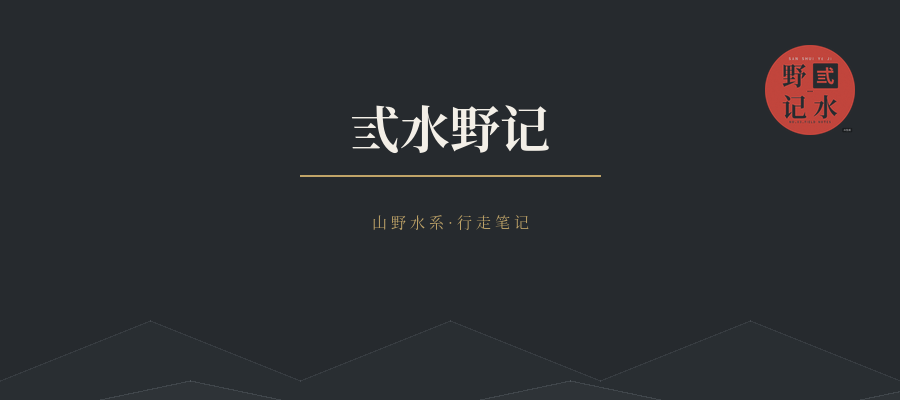
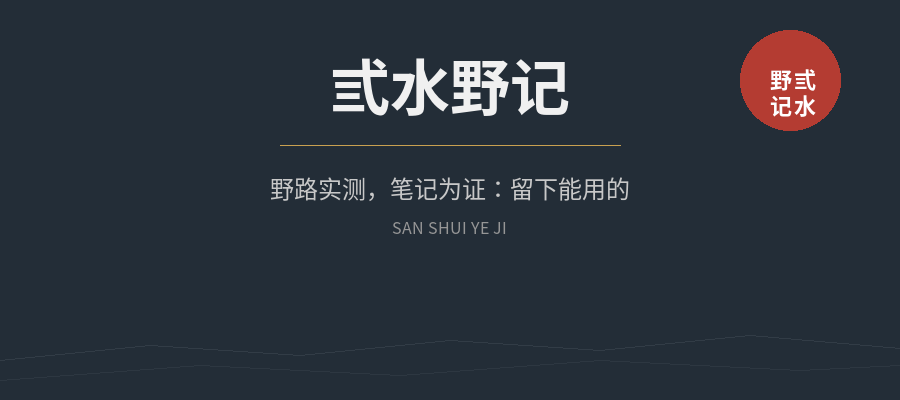
v2.6.0: 整理assets+更新SOP+大厂文章推送素材
- 新增：大厂个人AI助理之战封面输出图
- 精简：移除冗余brand资源（banner/logo/多版本header）
- 更新TEAM.md/CHANGELOG/docs同步今日推进
- 清理assets/templates目录

diff --git a/docs/tools/tools-design.md b/docs/tools/tools-design.md
@@ -10,17 +10,8 @@ source_lines: "779-794,876-893"
 
 | 工具 | 类型 | 状态 | 路径/入口 | 用法 |
 |------|------|------|-----------|------|
-| `wx-toolkit` | HTML | ✅ | [minis://shared/wx-toolkit/index.html](minis://shared/wx-toolkit/index.html) | 本地化一键排版。默认参数：15px/1.75em/字距1px/段距5px/图片阴影3.5/3.5/8px |
-| `minis-browser-use` | CLI | ✅ | `minis-browser-use` | 排版自动化：navigate → inject HTML → formatContent() → applyImageShadow() → screenshot 验证 |
-
-**自动化流水线**（用 minis-browser-use 操控 wx-toolkit）：
-```
-1. navigate → minis://shared/wx-toolkit/index.html
-2. execute_js → 注入 Markdown 转 HTML 的 innerHTML
-3. execute_js formatContent() — 一键排版（清脏样式+统一样式）
-4. execute_js applyImageShadow() — 图片加阴影
-5. screenshot — 验证效果
-```
+| `gzh-typeset.py` | Python | ✅ | `/var/minis/shared/gzh-team/gzh-typeset.py` | Markdown → HTML 排版。5 主题预设 + 荧光笔 + 首尾模板 + 表格转义 |
+| `minis-browser-use` | CLI | ✅ | `minis-browser-use` | 可选：navigate → inject HTML → formatContent() → screenshot 验证（原 gzh-typeset.py 流程） |
 
 
 ### 12.9 角色→工具速查
@@ -32,11 +23,11 @@ source_lines: "779-794,876-893"
 | **结构梳理** | 无工具（靠 §3.3 结构模板库） | 5 种模板：教程拆解/观点文/对比测评/复盘/盘点 |
 | **主笔** | `bao-kuai-xie-zuo` → `humanizer-check.py` | 写完跑去味检测，≤5 分进审核 |
 | **审核** | `yuwen-publish-precheck` + `gate-check.py` + `apple-vision` + `REVIEW.md` | 词面预检 → 结构门禁 → OCR 抽检 → 规范对照 |
-| **排版** | `hai-bao-she-ji`(即梦) / `minis-model-use`(sensenova) + `wx-toolkit` + `minis-browser-use` | 生图 → 排版 → 截图验证 |
+| **排版** | `hai-bao-she-ji`(即梦) / `minis-model-use`(sensenova) + `gzh-typeset.py` | 生图 → 排版 → 截图验证 |
 | **发布** | `gongzhonghao-publish` + `gzh-api-push.py` | 检查清单 → API 推草稿箱 → 后台确认 |
 | **读者互动官** | `nei-rong-zhuan-hua` | 一鱼多吃 6 平台拆分 |
 
-> ✅ 15 个工具 + 7 个文档/配置（§12.1-12.8 共 22 行，逐行验证存在）（09-17）。5 个已实测执行（wx-toolkit / gate-check.py / yuwen-publish-precheck / hai-bao-she-ji / minis-model-use），8 个已读文档未执行。
+> ✅ 15 个工具 + 7 个文档/配置（§12.1-12.8 共 22 行，逐行验证存在）（09-17）。4 个已实测执行（gate-check.py / yuwen-publish-precheck / hai-bao-she-ji / minis-model-use），9 个已读文档未执行。
 > ⚠ 结构梳理无对应工具——靠模板库是现状，不是遗漏。模板库的 5 种结构覆盖 AI 自媒体 90% 的选题类型。
 
 ---

diff --git a/TEAM.md b/TEAM.md
@@ -356,7 +356,7 @@ version: "2.5.2"
 - → 09：图片尺寸标准
 - ← 10：图片交付
 - → 07：排版稿截图
-- → 09：实拍图标注**排版规范（与 wx-toolkit 默认一致）**
+- → 09：实拍图标注**排版规范（与 gzh-typeset.py 默认一致）**
 
 | 参数 | 值 |
 |------|-----|
@@ -374,7 +374,7 @@ version: "2.5.2"
 
 **头条封面裁切提醒（微信官方）**：聊天列表 / 部分卡片场景会把 2.35:1 裁成 1:1，**核心内容必须居中**，不能贴边。
 
-**工具**：`minis://shared/wx-toolkit/index.html`（排版）+ `gate-H11-check.py`（图上中文自检）
+**工具**：`gzh-typeset.py`（排版）+ `gate-H11-check.py`（图上中文自检）
 
 > 生图通道、五条硬约束、比例适配等详见 §3.10 丹青（视觉创意岗）。法度不再负责生图。
 
@@ -475,7 +475,7 @@ version: "2.5.2"
 
 > ⚠ **推送到草稿箱 ≠ 发布**。推完仍需在公众号后台预览确认后再点「发布」。
 
-**工具链**：`gongzhonghao-publish`——创→排→发→推流水线，含 `gzh-api-tui-song` 推草稿箱、`gzh-pai-ban` 排版组件（排版规范与 wx-toolkit 默认一致）
+**工具链**：`gongzhonghao-publish`——创→排→发→推流水线，含 `gzh-api-tui-song` 推草稿箱、`gzh-pai-ban` 排版组件（排版规范与 gzh-typeset.py 默认一致）
 
 
 ### 3.8 回访（Follow-up）

diff --git a/docs/v2.5.x-completion-20260929.md b/docs/v2.5.x-completion-20260929.md
@@ -17,7 +17,7 @@
 | 6 | 选题库引用悬空（脱敏上传删除） | HANDOFF 仍指向 `选题库/opus55-...` | ✅ 已建占位 | 选题库/README.md |
 | 7 | TEAM.md 版本号三处矛盾（v2.3/v2.3.1/v2.2.2） | 纸面完成反模式 | ✅ 已立 §2 纪律 + gate-version-check.py | TEAM.md §2 / gate-version-check.py |
 | 8 | CHANGELOG 历史被覆盖（§1-23 丢失） | file_write 全文覆盖 | ✅ 已从 git 恢复 | CHANGELOG.md |
-| 9 | 外部工具路径硬引用（wx-toolkit / gzh-api-push） | 净化需求 | ✅ 改为 skill 调用 | docs/roles/*.md |
+| 9 | 外部工具路径硬引用（gzh-typeset.py / gzh-api-push） | 净化需求 | ✅ 改为 skill 调用 | docs/roles/*.md |
 | 10 | 周报数据未进团队文档 | 官方通道滞后于自建台账 | ✅ 已归档 | docs/发布台账.md + （截图已删除，见 media/README.md） |
 
 ---

diff --git a/docs/00-architecture/quickstart.md b/docs/00-architecture/quickstart.md
@@ -49,7 +49,7 @@ source_lines: "557-582,583-590,591-600"
 |------|------|--------------|
 | 账号为 AI 自媒体（AI 工具 / AI 效率赛道） | 现有画像与流水线 skill 的默认设定 | 改 3.3 结构模板库（换成你的文章类型） |
 | 单账号、图文为主 | gongzhonghao-publish 的定位 | 多账号需在第 7 章资产表加"账号"维度 |
-| 与现有工具链打通（wx-toolkit / gzh-api-push / 爆款写作） | 已装 skill | 换工具只改各角色"工具"行，职责不变 |
+| 与现有工具链打通（gzh-typeset.py / gzh-api-push / 爆款写作） | 已装 skill | 换工具只改各角色"工具"行，职责不变 |
 
 > 本手册是 v1.0，设计基准是"接缝有标准、责任不糊"。用两周后，优先修改**被绕过最多的门禁**和**被投诉最多的交接点**——那是真正需要改的地方。
 

diff --git a/assets/templates/INDEX.md b/assets/templates/INDEX.md
@@ -6,9 +6,6 @@
 
 | ID | 模板名 | 适用类型 | 文件路径 |
 |----|--------|---------|---------|
-| T01 | 标准观点 | 观点/资讯 | templates/standard-opinion.md |
-| T02 | 评测横比 | 评测/对比 | templates/review-compare.md |
-| T03 | 教程方法 | 教程/方法 | templates/tutorial-method.md |
 
 ## 模板结构规范
 
